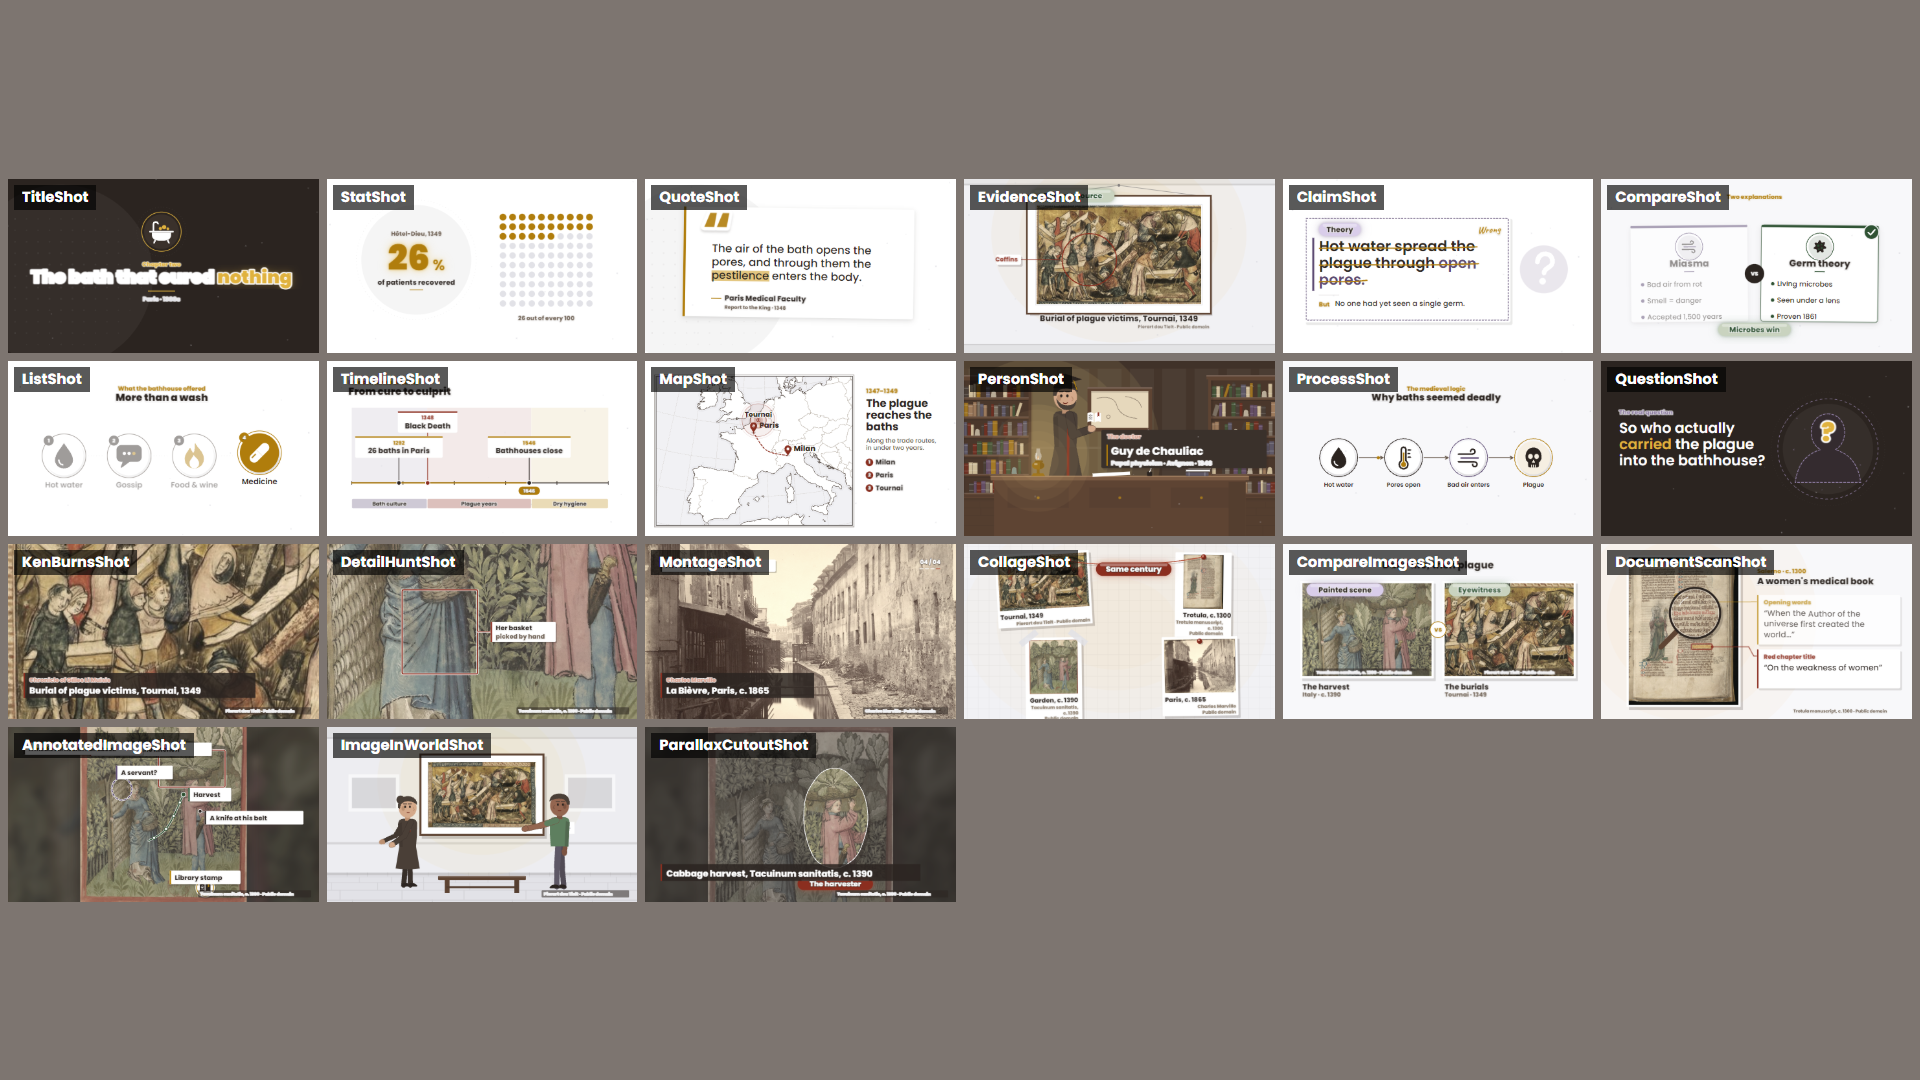
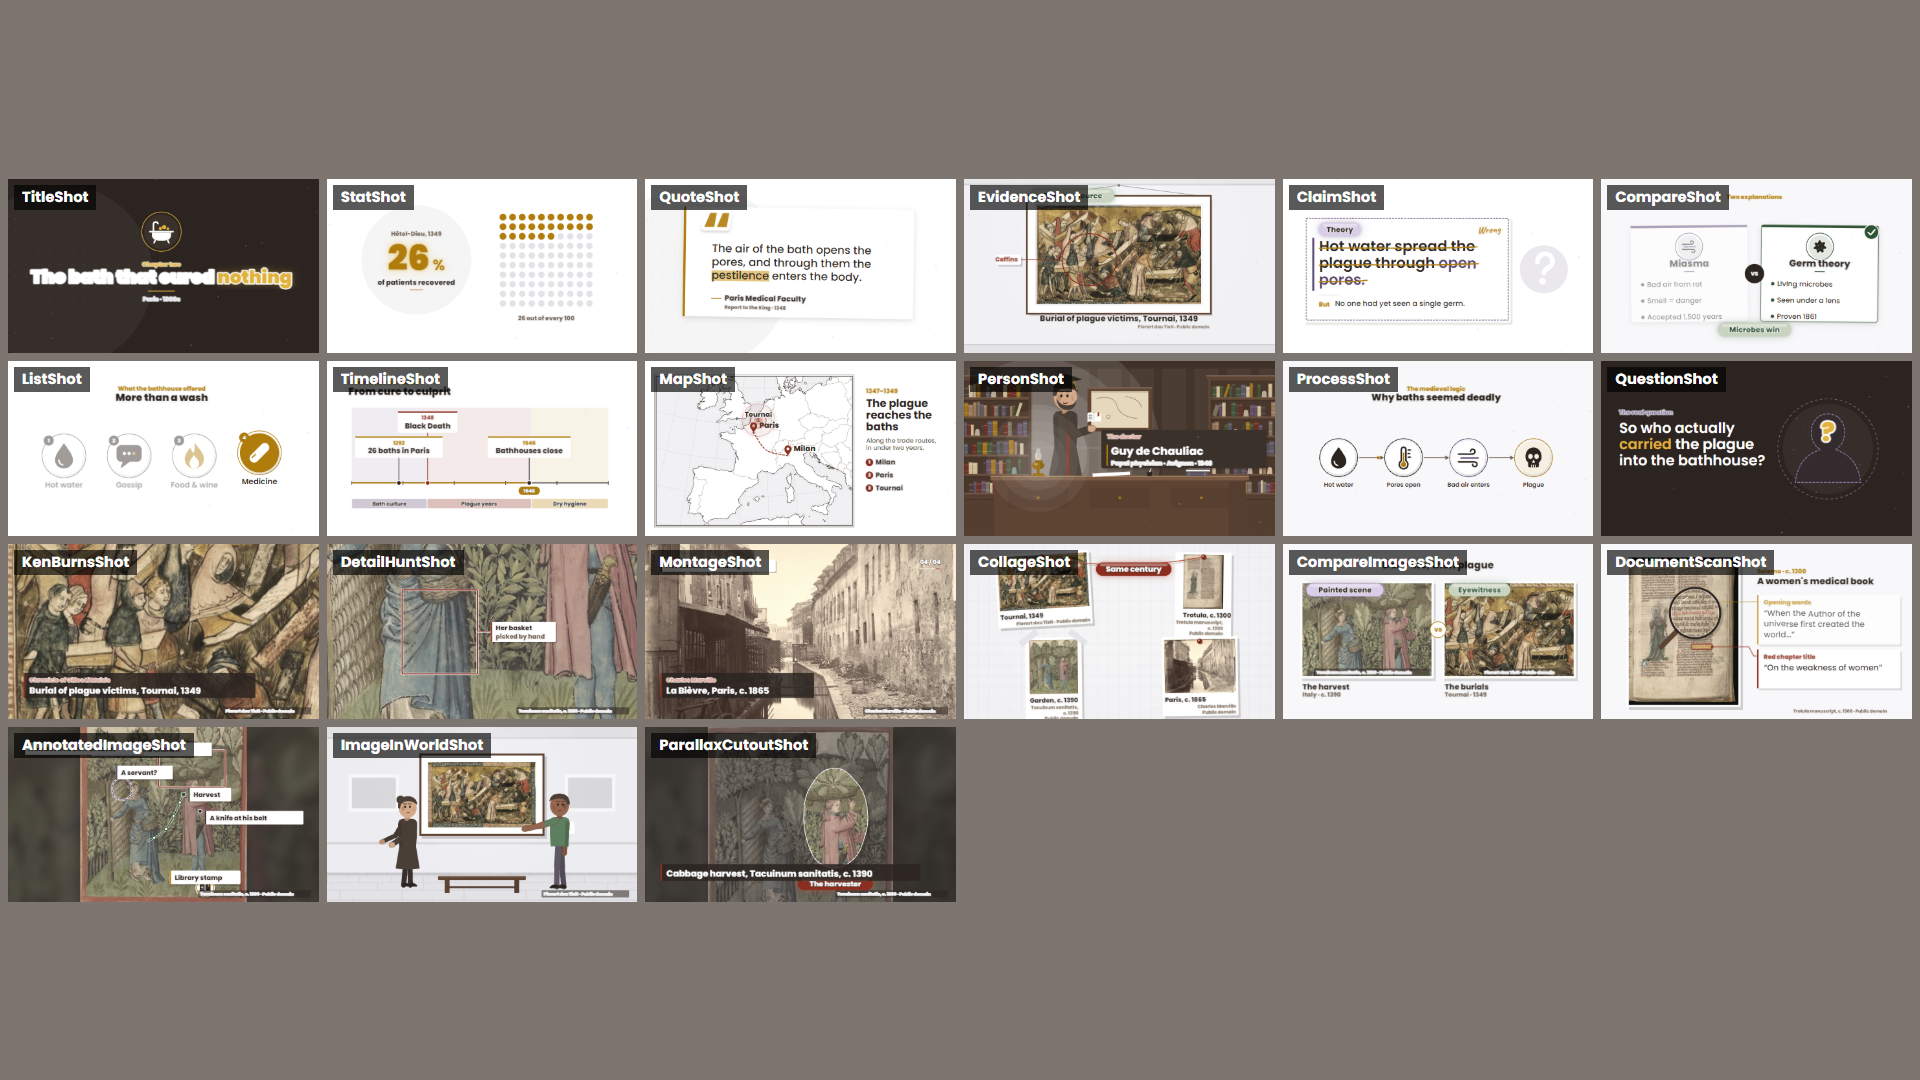
THE LOOK for everything: clean bright polished modern style rule (PLAYBOOK/BUILDER/PIPELINE review), reference frames, neutral light pools by default, near-invisible vignette, no yellow scene lights

diff --git a/src/kit/archival.tsx b/src/kit/archival.tsx
@@ -649,7 +649,7 @@ export const CollageShot: React.FC<
       {Array.from({length: 28}, (_, i) => (
         <rect key={`h${i}`} x={-300} y={-300 + i * 64} width={2520} height={2} fill={lineCol} />
       ))}
-      <LightPool x={960} y={480} r={900} sy={0.75} strength={dark ? 1.4 : 0.8} color={C.lamp} />
+      <LightPool x={960} y={480} r={900} sy={0.75} strength={dark ? 1.4 : 0.8} />
     </g>
   );
   const prints = lay.map((L, i) => {
@@ -973,7 +973,7 @@ export const DocumentScanShot: React.FC<ArchBase & {src: string; aspect?: number
             depth: 1,
             el: (
               <g>
-                <LightPool x={x0 + dw / 2} y={y0 + dh * 0.4} r={dh * 0.9} strength={P.dark ? 1.4 : 0.9} color={C.lamp} />
+                <LightPool x={x0 + dw / 2} y={y0 + dh * 0.4} r={dh * 0.9} strength={P.dark ? 1.4 : 0.9} />
                 <g opacity={docP} transform={`translate(0 ${(1 - ease.outQuint(docP)) * 40})`}>
                   <rect x={x0 - 12 + 14} y={y0 - 12 + 18} width={dw + 24} height={dh + 24} rx={3} fill={C.ink} opacity={P.dark ? 0.45 : 0.2} />
                   <rect x={x0 - 12} y={y0 - 12} width={dw + 24} height={dh + 24} rx={3} fill={C.paperLight} />
@@ -1286,7 +1286,7 @@ export const ImageInWorldShot: React.FC<
         <rect x={-400} y={80} width={2720} height={10} fill={mixC(wall, C.ink, 0.15)} />
         <rect x={-400} y={700} width={2720} height={14} fill={mixC(wall, C.ink, 0.12)} />
         <Floor y={880} color={C.paperDeep} kind="tiles" seed={seed} />
-        <LightPool x={cx} y={cy - 80} r={620} sy={0.9} strength={1.2} color={C.lamp} />
+        <LightPool x={cx} y={cy - 80} r={620} sy={0.9} strength={1.2} />
         {[-1, 1].map((sd) => (
           <g key={sd} opacity={0.55}>
             <rect x={960 + sd * 640 - 150} y={300} width={300} height={220} fill={C.paperLight} />
@@ -1311,7 +1311,7 @@ export const ImageInWorldShot: React.FC<
       <g>
         <Study t={t} seed={seed} layer="back" />
         <rect x={-400} y={-300} width={2720} height={1700} fill={C.ink} opacity={0.25} />
-        <LightPool x={cx} y={cy} r={700} strength={1.3} color={C.lamp} />
+        <LightPool x={cx} y={cy} r={700} strength={1.3} />
         {hands && <Person {...hands} />}
         <g transform={`rotate(${rot} ${cx} ${cy})`}>
           <rect x={cx - w / 2 - pad + 12} y={cy - h / 2 - pad + 16} width={w + pad * 2} height={h + pad * 2} fill={C.ink} opacity={0.35} />
@@ -1333,7 +1333,7 @@ export const ImageInWorldShot: React.FC<
             <rect x={-400 + rand(seed + i) * 1600} y={-300 + i * plank} width={4} height={plank} fill={C.woodDark} opacity={0.5} />
           </g>
         ))}
-        <LightPool x={cx - 120} y={cy - 60} r={900} strength={1.5} color={C.lamp} />
+        <LightPool x={cx - 120} y={cy - 60} r={900} strength={1.5} />
         <rect x={cx - 640} y={cy - 360} width={420} height={540} fill={C.paperShade} transform={`rotate(-12 ${cx - 430} ${cy - 90})`} />
         <rect x={cx + 260} y={cy + 40} width={520} height={380} fill={C.paperLight} transform={`rotate(9 ${cx + 520} ${cy + 230})`} />
         {[0, 1, 2, 3, 4].map((i) => (

diff --git a/src/kit/fx.tsx b/src/kit/fx.tsx
@@ -185,10 +185,11 @@ export const Halo: React.FC<{id: string; x: number; y: number; r: number; color?
   );
 
 /** Flat light pool: concentric low-opacity discs (no gradients → no banding). origin = centre. */
-export const LightPool: React.FC<{x: number; y: number; r: number; color?: string; strength?: number; sy?: number}> = ({x, y, r, color = C.lamp, strength = 1, sy = 1}) => (
+export const LightPool: React.FC<{x: number; y: number; r: number; color?: string; strength?: number; sy?: number}> = ({x, y, r, color = '#FFFFFF', strength = 1, sy = 1}) => (
+  // CLEAN LOOK (owner 2026-10-21): neutral light by default — no yellow cast; pass C.lamp only for a real lamp/fire scene
   <g transform={`translate(${x} ${y}) scale(1 ${sy})`} fill={color}>
     {[1, 0.78, 0.58, 0.4].map((k, i) => (
-      <circle key={i} r={r * k} opacity={0.07 * strength} />
+      <circle key={i} r={r * k} opacity={(color === C.lamp || color === C.fire ? 0.05 : 0.07) * strength} />
     ))}
   </g>
 );
@@ -225,7 +226,7 @@ export const Vignette: React.FC<{strength?: number; color?: string; w?: number; 
     <g fill="none" stroke={color} pointerEvents="none">
       {Array.from({length: steps}, (_, i) => {
         const sw = 60 + i * 55;
-        return <rect key={i} x={-sw / 2} y={-sw / 2} width={w + sw} height={h + sw} strokeWidth={sw} opacity={(0.05 * strength) / (1 + i * 0.15)} />;
+        return <rect key={i} x={-sw / 2} y={-sw / 2} width={w + sw} height={h + sw} strokeWidth={sw} opacity={(0.02 * strength) / (1 + i * 0.15)} /> // clean look: a whisper of edge darkening only;
       })}
     </g>
   );

diff --git a/src/kit/templates.tsx b/src/kit/templates.tsx
@@ -673,7 +673,7 @@ export const EvidenceShot: React.FC<
           <rect x={-300} y={44} width={2520} height={10} fill={mixHex(wall, C.ink, P.dark ? 0.45 : 0.16)} />
           <rect x={-300} y={1010} width={2520} height={400} fill={mixHex(wall, C.ink, P.dark ? 0.3 : 0.07)} />
           <rect x={-300} y={1004} width={2520} height={8} fill={mixHex(wall, C.ink, P.dark ? 0.45 : 0.16)} />
-          <LightPool x={px} y={py - 120} r={760} sy={0.85} strength={P.dark ? 1.6 : 1.1} color={C.lamp} />
+          <LightPool x={px} y={py - 120} r={760} sy={0.85} strength={P.dark ? 1.6 : 1.1} />
           <path d={`M${px} 54 L${fl + 80} ${ft + 4} M${px} 54 L${fr - 80} ${ft + 4}`} stroke={mixHex(wall, C.ink, 0.5)} strokeWidth={3} fill="none" opacity={ramp(t, t0 - 0.3, t0 + 0.2)} />
           <circle cx={px} cy={54} r={8} fill={mixHex(wall, C.ink, 0.55)} />
         </g>

diff --git a/.claude/agents/binly-builder.md b/.claude/agents/binly-builder.md
@@ -154,6 +154,13 @@ lavender for mystery, green for life, red for danger) — 1–3 per scene, not e
 focus; animate blur 0→10 for a rack-focus. For dialogue/reveal shots only — never text, never the whole frame.
 **Size on phones:** characters big — close/medium shots most of the time (face ≈ ⅓ frame height in a close-up).
 
+## The look (PLAYBOOK "THE LOOK") — applies to everything you draw in code too
+Bright and clean: white/light-neutral grounds, crisp thick dark outlines (≥ 4 px at 1080p on objects), clean flat colours
++ light shading, one glowing hero. No yellow/brown/sepia casts, no dark murky frames (unless the story is at night), no
+heavy vignettes, no neon/oversaturated colours, no thin scratchy or crude shapes. Prefer generated art (public/<slug>/bg|el)
+and image hosts over the old code-drawn kit rooms/streets/people when they look dated next to them. Light pools are
+neutral white by default (warm only for a real lamp/fire). References: docs/art/references/*.
+
 ## Language (never mixed)
 Every on-screen string is in the video's language (video.json `lang`): English video → English only, Arabic video →
 Arabic only (names in Arabic letters). Omit `who` on <ImageHost> — the host follows the language. `check.mjs` fails on
@@ -376,6 +383,14 @@ A great video in one session beats a perfect plan.
   lift off the white with a soft shadow (GLOW.soft). No noise/grain/texture, no glow on everything. Allowed polish (owner 2026-10-21): soft gradient skies and gentle
   shading in generated art; a camera-focus DEPTH blur (kit/asset Depth) on a foreground host/object or on the plate in a
   close-up — only for ~5–10 special shots per video (dialogue, reveals), never on text or the whole frame.
+- **THE LOOK — clean, polished, modern (owner 2026-10-21), for EVERYTHING on screen (Flow art AND code-drawn elements,
+  hosts, icons, charts, text):** bright clean frames — white or light neutral grounds, clear daylight, crisp thick black
+  outlines, clean flat colours with light simple shading, a few strong accents (one hero element may glow). Cartoon is
+  fine when it is the polished modern kind (like the reference frames in docs/art/references/) — never the cheap kind.
+  NEVER: yellow/sepia/orange casts, brown-beige "old paper" mood, muddy or dark frames (dark only when the story is
+  literally at night/underground), heavy vignettes, over-saturated or neon colours, flat lifeless grey, crude/wobbly
+  shapes, thin scratchy lines, clip-art. If a code-drawn piece (old kit rooms/streets/props) looks dated or murky next to
+  the generated art, use generated art or white mode instead. Judge every contact sheet with this list.
 - **Big characters, mostly close and medium shots** (phone viewers): a host or story character's face fills ~⅓ of the
   frame in close shots; wide shots only to establish a place. Generated art is checked on the --phone sheet too.
 - Typography (owner 2026-10-21): **Poppins Black** (geometric, bold, clean — picked by the owner from a test page; Arabic = Baloo Bhaijaan 2) for

diff --git a/docs/PLAYBOOK.md b/docs/PLAYBOOK.md
@@ -50,6 +50,14 @@ This overrides the "documentary" wording in `brand/` (music included: cinematic 
   lift off the white with a soft shadow (GLOW.soft). No noise/grain/texture, no glow on everything. Allowed polish (owner 2026-10-21): soft gradient skies and gentle
   shading in generated art; a camera-focus DEPTH blur (kit/asset Depth) on a foreground host/object or on the plate in a
   close-up — only for ~5–10 special shots per video (dialogue, reveals), never on text or the whole frame.
+- **THE LOOK — clean, polished, modern (owner 2026-10-21), for EVERYTHING on screen (Flow art AND code-drawn elements,
+  hosts, icons, charts, text):** bright clean frames — white or light neutral grounds, clear daylight, crisp thick black
+  outlines, clean flat colours with light simple shading, a few strong accents (one hero element may glow). Cartoon is
+  fine when it is the polished modern kind (like the reference frames in docs/art/references/) — never the cheap kind.
+  NEVER: yellow/sepia/orange casts, brown-beige "old paper" mood, muddy or dark frames (dark only when the story is
+  literally at night/underground), heavy vignettes, over-saturated or neon colours, flat lifeless grey, crude/wobbly
+  shapes, thin scratchy lines, clip-art. If a code-drawn piece (old kit rooms/streets/props) looks dated or murky next to
+  the generated art, use generated art or white mode instead. Judge every contact sheet with this list.
 - **Big characters, mostly close and medium shots** (phone viewers): a host or story character's face fills ~⅓ of the
   frame in close shots; wide shots only to establish a place. Generated art is checked on the --phone sheet too.
 - Typography (owner 2026-10-21): **Poppins Black** (geometric, bold, clean — picked by the owner from a test page; Arabic = Baloo Bhaijaan 2) for

diff --git a/docs/BUILDER.md b/docs/BUILDER.md
@@ -99,6 +99,13 @@ lavender for mystery, green for life, red for danger) — 1–3 per scene, not e
 focus; animate blur 0→10 for a rack-focus. For dialogue/reveal shots only — never text, never the whole frame.
 **Size on phones:** characters big — close/medium shots most of the time (face ≈ ⅓ frame height in a close-up).
 
+## The look (PLAYBOOK "THE LOOK") — applies to everything you draw in code too
+Bright and clean: white/light-neutral grounds, crisp thick dark outlines (≥ 4 px at 1080p on objects), clean flat colours
++ light shading, one glowing hero. No yellow/brown/sepia casts, no dark murky frames (unless the story is at night), no
+heavy vignettes, no neon/oversaturated colours, no thin scratchy or crude shapes. Prefer generated art (public/<slug>/bg|el)
+and image hosts over the old code-drawn kit rooms/streets/people when they look dated next to them. Light pools are
+neutral white by default (warm only for a real lamp/fire). References: docs/art/references/*.
+
 ## Language (never mixed)
 Every on-screen string is in the video's language (video.json `lang`): English video → English only, Arabic video →
 Arabic only (names in Arabic letters). Omit `who` on <ImageHost> — the host follows the language. `check.mjs` fails on

diff --git a/.claude/skills/make-video/PIPELINE.md b/.claude/skills/make-video/PIPELINE.md
@@ -203,7 +203,8 @@ which edits just those shots' exports in the chapters' `.custom.tsx` files — o
 tokens: it compares pixels itself) lists sentences whose picture barely changes. Fix the real ones in one round (send the
 list to the chapter's builder); an intentional payoff hold is fine — leave it.
 
-**5d · High-end editor pass (once, before the final render)** — watch the whole video as contact sheets at 2 s spacing
+**5d · High-end editor pass (once, before the final render)** — check THE LOOK (PLAYBOOK: clean bright polished, no
+yellow/dark/murky/cheap frames) and watch the whole video as contact sheets at 2 s spacing
 (`node tools/sheet.mjs --from a --to b --n 30` per ~1 min) with RETENTION §12 in mind: any second where nothing changes,
 a slow entrance/fade, a long transition, a sag in the middle without a re-hook, a hook that doesn't deliver the
 promise in 5 s, an outro that drags → fix it (one builder round per chapter at most), then render.

diff --git a/docs/ART-STYLE.md b/docs/ART-STYLE.md
@@ -4,6 +4,7 @@ Every generated image (background plates, element sheets, host costumes) uses th
 The owner rejected a warm, yellow, moody result ("the colours are yellow and the atmosphere…"). The target is the
 **clean, flat, evenly lit cartoon look**: easy on the eyes, neutral colours, crisp lines.
 
+More owner-approved references (other channels, the look we aim for): docs/art/references/.
 Approved example: docs/art/approved-background.jpg (use it as the reference image for new plates). Rejected:
 docs/art/rejected-yellow.jpg (warm, yellow, light beams, painterly) — never this.
 
